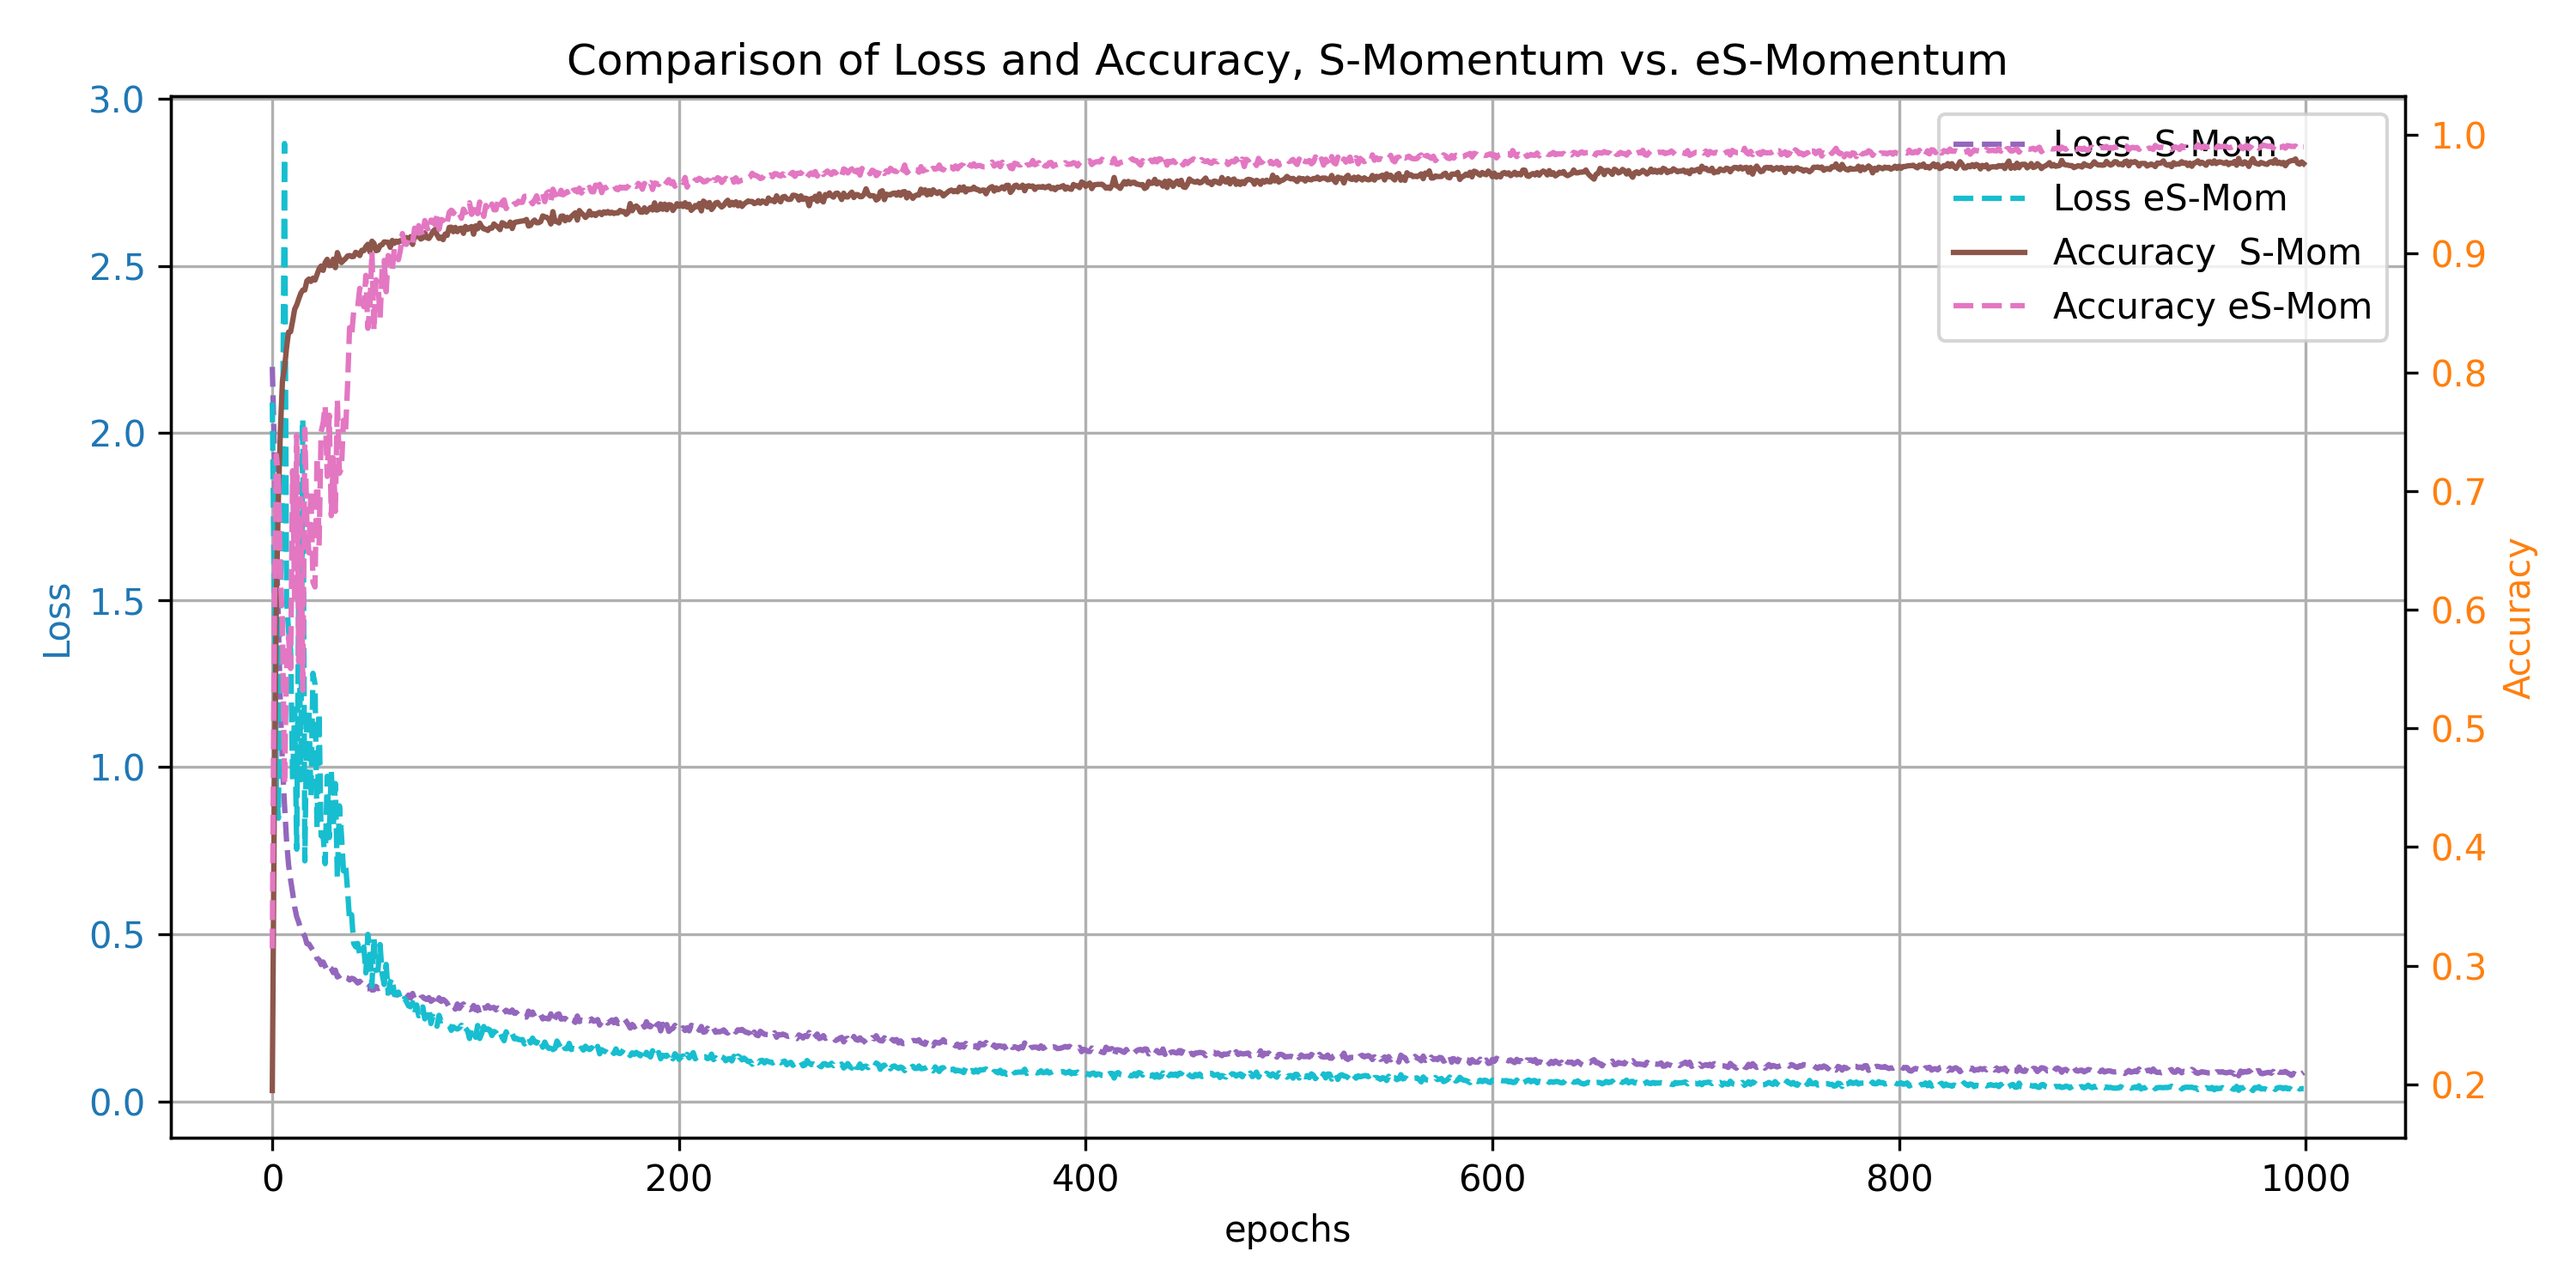
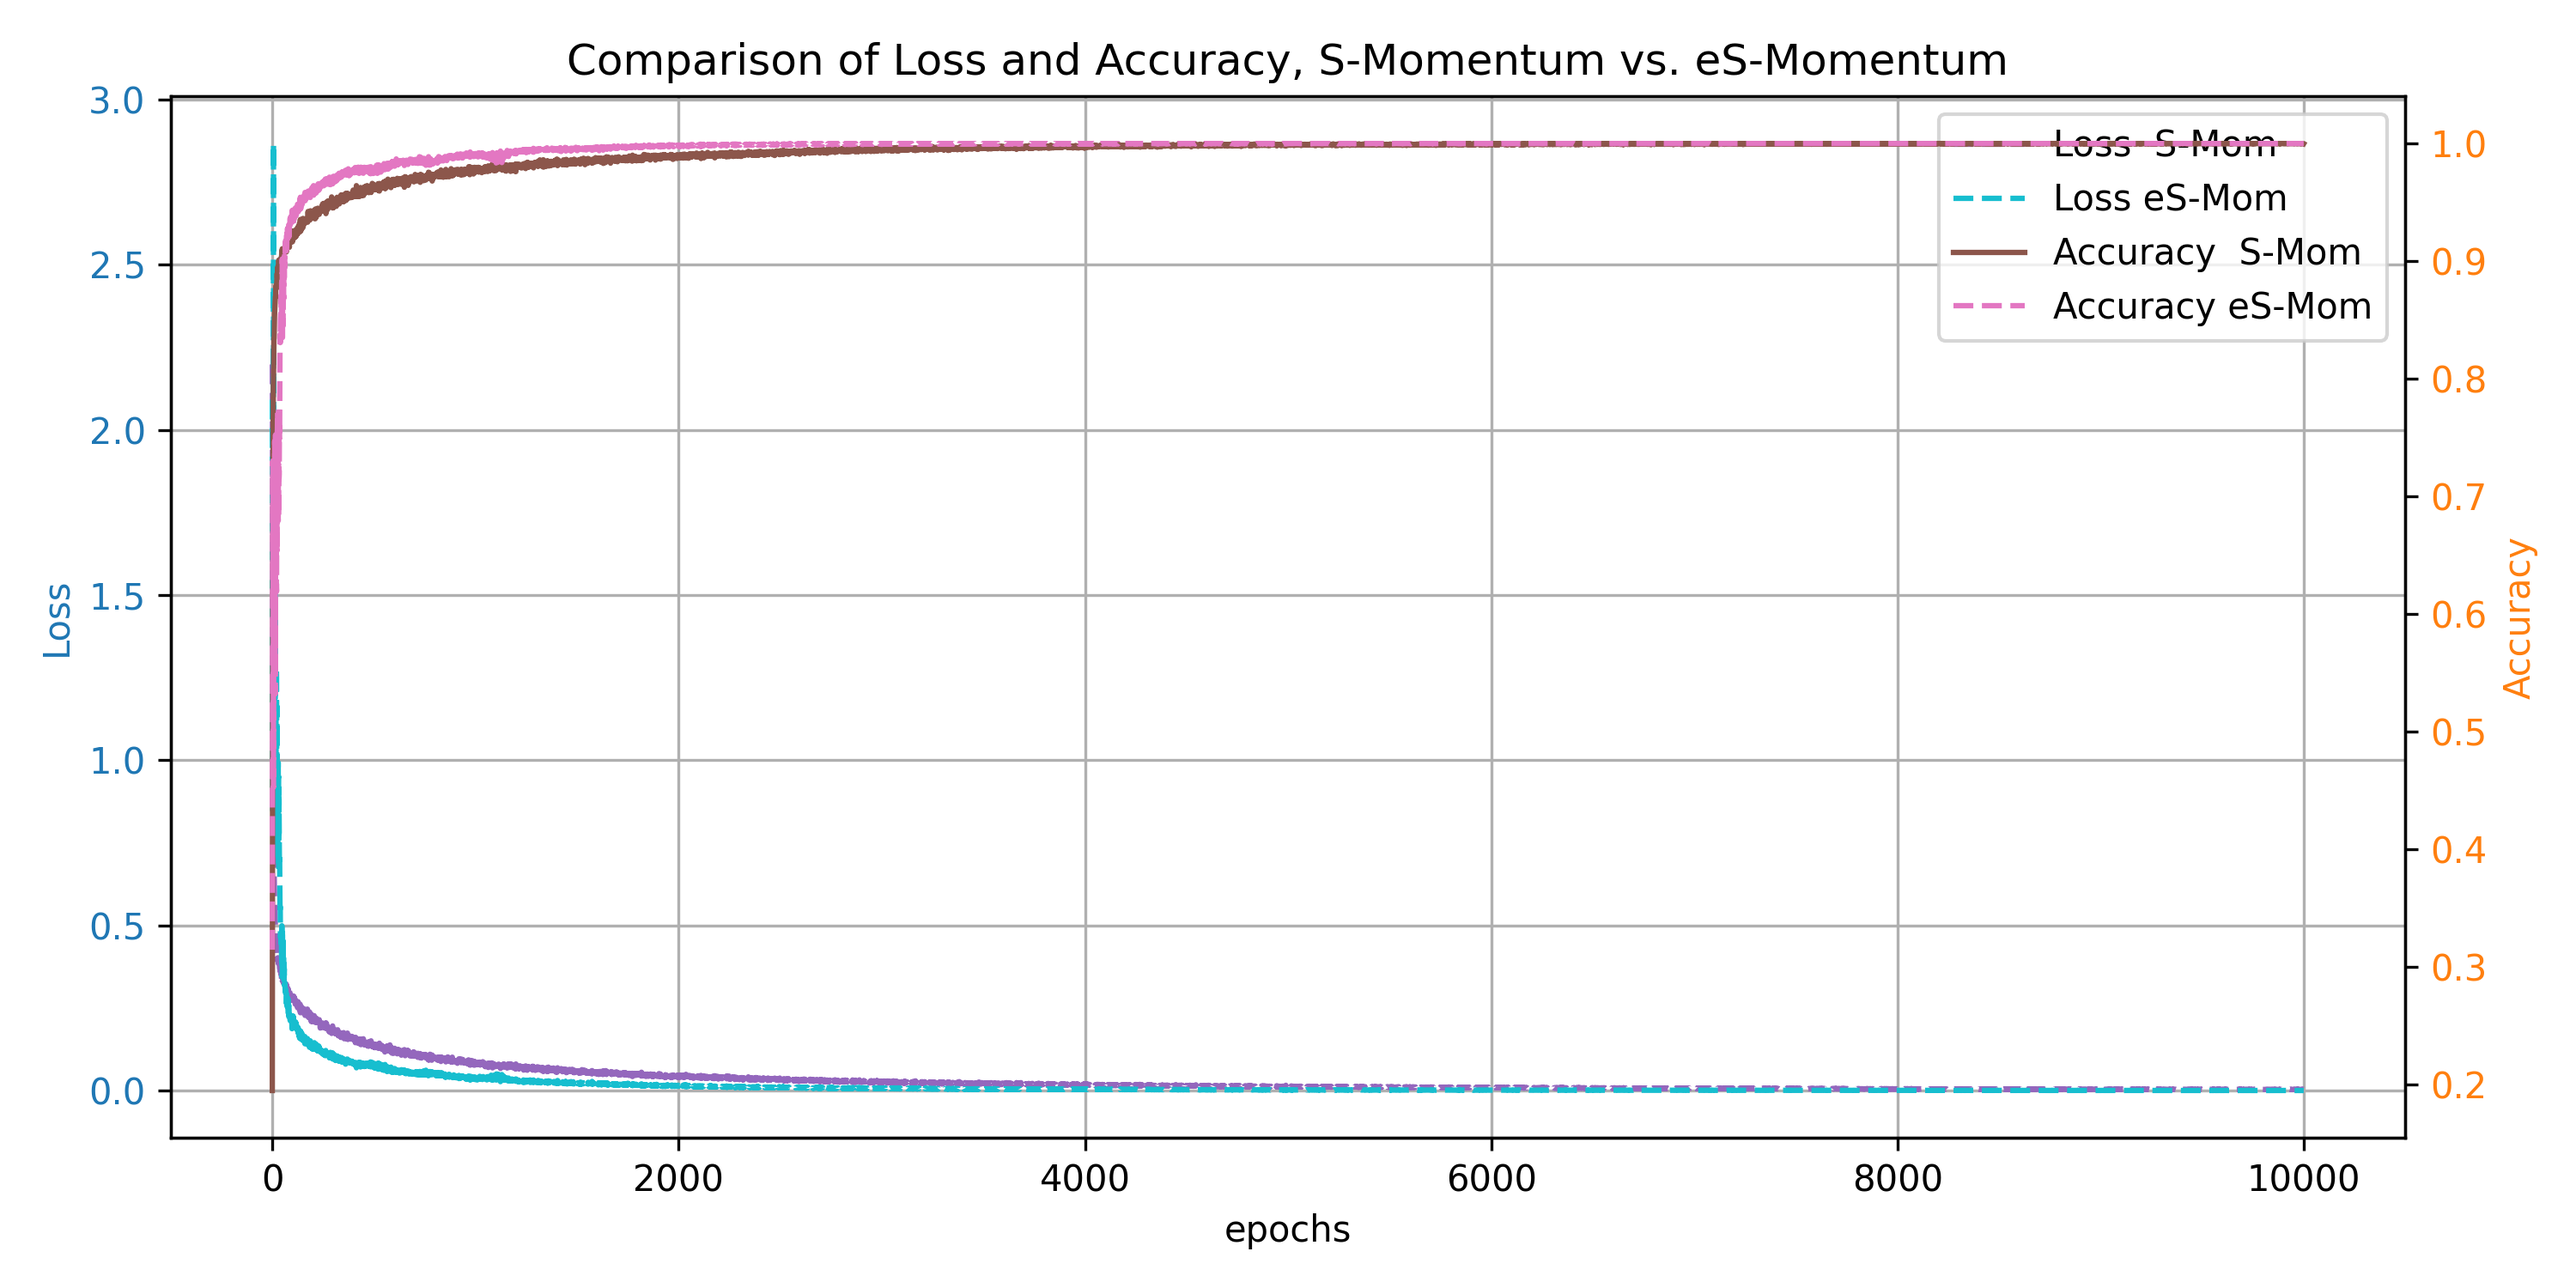
log plot

diff --git a/partI_JMLMC/JMLMC.tex b/partI_JMLMC/JMLMC.tex
@@ -1194,21 +1194,24 @@ It is the split version of the full batch optimizer of flow \eqref{F_adam_mod}, 
 
 Reproducible, same init for both
 \begin{figure}[!h]
-  \includegraphics[width=0.8\linewidth]{chapitre5_img/comparison_plot.png}
+  %\includegraphics[width=0.8\linewidth]{chapitre5_img/comparison_plot.png}
+  \includegraphics[width=0.8\linewidth]{chapitre5_img/comparison_plot_log.png}
   \caption{MNIST}
   \label{mnist}
 \end{figure}
 
 
 \begin{figure}[!h]
-  \includegraphics[width=0.8\linewidth]{chapitre5_img/GD_comparison_plot.png}
+  %\includegraphics[width=0.8\linewidth]{chapitre5_img/GD_comparison_plot.png}
+  \includegraphics[width=0.8\linewidth]{chapitre5_img/GD_comparison_plot_log.png}
   \caption{MNIST GD}
   \label{mnist_gd}
 \end{figure}
 
 
 \begin{figure}[!h]
-  \includegraphics[width=0.8\linewidth]{chapitre5_img/Mom_comparison_plot.png}
+  %\includegraphics[width=0.8\linewidth]{chapitre5_img/Mom_comparison_plot.png}
+  \includegraphics[width=0.8\linewidth]{chapitre5_img/Mom_comparison_plot_log.png}
   \caption{MNIST Mom}
   \label{mnist_mom}
 \end{figure}
